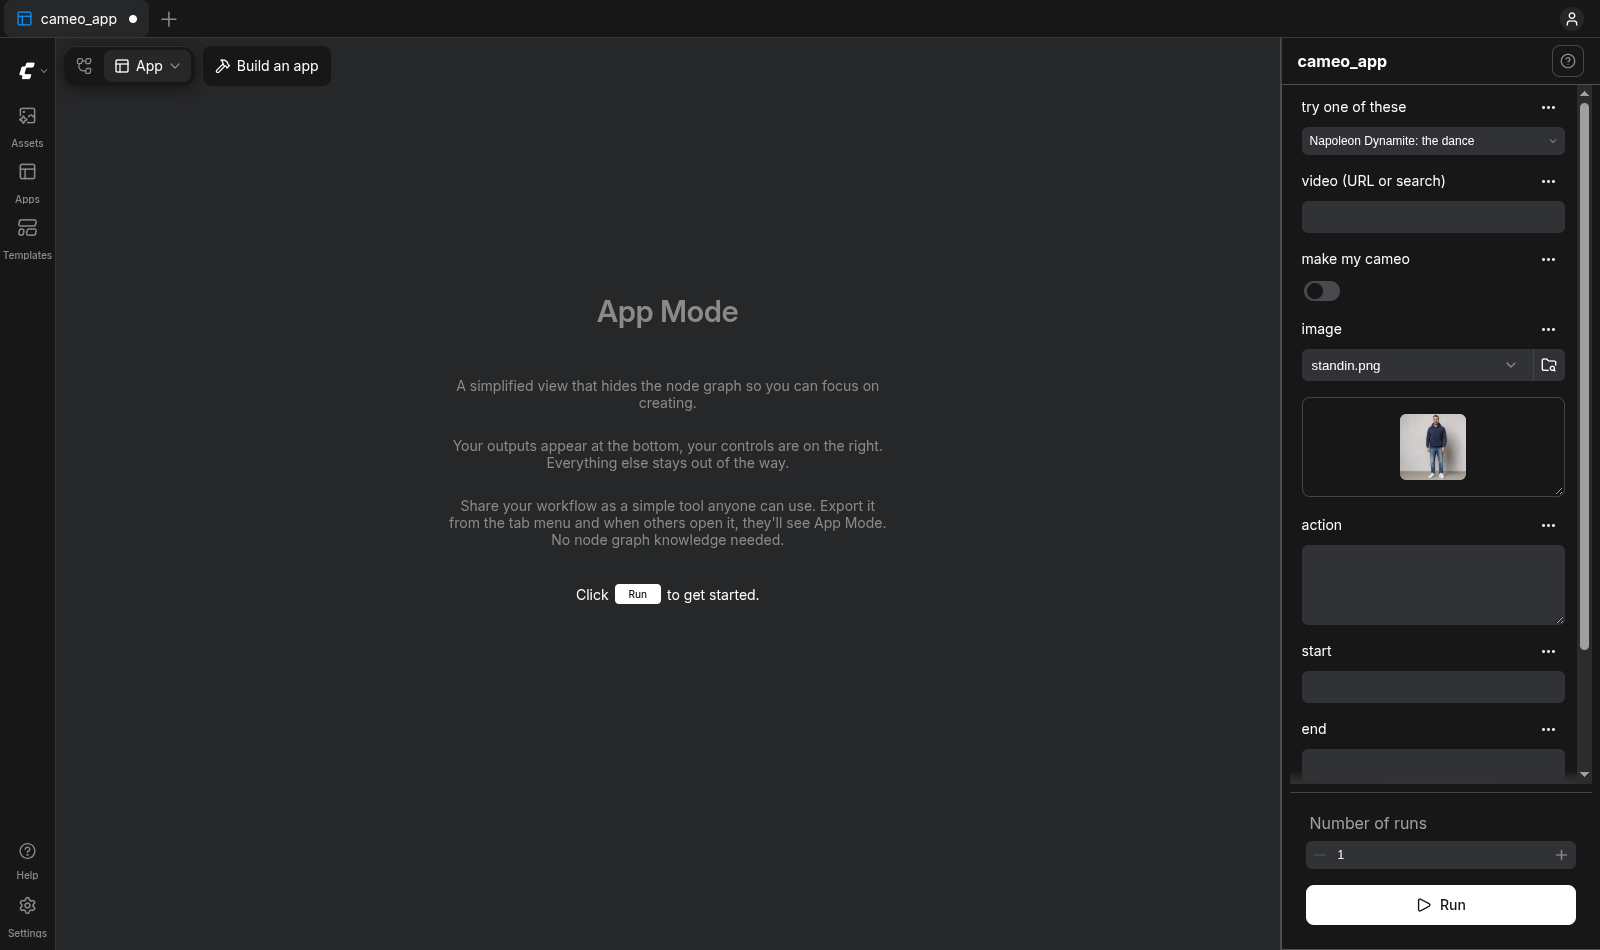
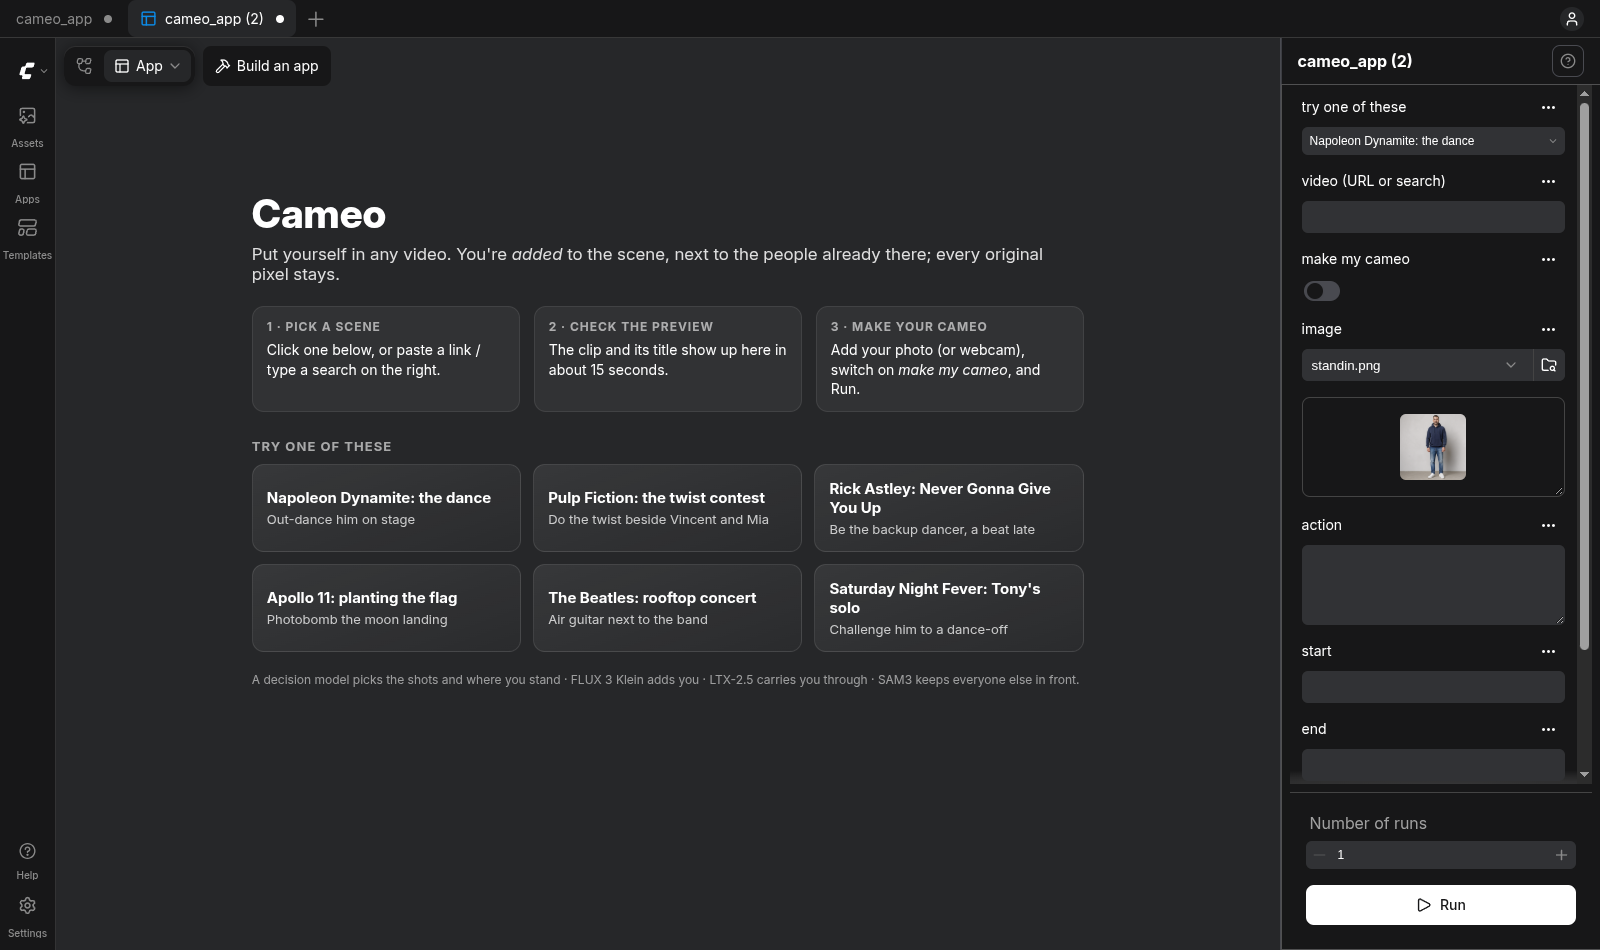
App Mode welcome screen for Cameo
Replace App Mode's generic empty state with Cameo's own whenever the Cameo app
is open: the pitch, the three steps, and clickable scene cards that pick the
scene in the sidebar and start its preview.

Claude-Session: https://claude.ai/code/session_01WrQ2DxVGgjGvV8Z2unbntU

diff --git a/comfyui_cameo/web/cameo.js b/comfyui_cameo/web/cameo.js
@@ -53,3 +53,94 @@ app.registerExtension({
     setTimeout(preferPhoto, 600);
   },
 });
+
+// ---- App Mode welcome: replace the generic empty state with Cameo's own, when the Cameo app is open ----
+
+const SCENES = [
+  ["Napoleon Dynamite: the dance", "Out-dance him on stage"],
+  ["Pulp Fiction: the twist contest", "Do the twist beside Vincent and Mia"],
+  ["Rick Astley: Never Gonna Give You Up", "Be the backup dancer, a beat late"],
+  ["Apollo 11: planting the flag", "Photobomb the moon landing"],
+  ["The Beatles: rooftop concert", "Air guitar next to the band"],
+  ["Saturday Night Fever: Tony's solo", "Challenge him to a dance-off"],
+];
+
+function cameoNodes() {
+  const nodes = app.graph?._nodes ?? [];
+  return { fetch: nodes.find((n) => n.comfyClass === "CameoFetch"), cast: nodes.find((n) => n.comfyClass === "CameoCast") };
+}
+
+function setWidget(node, name, value) {
+  const w = node?.widgets?.find((w) => w.name === name);
+  if (!w) return;
+  w.value = value;
+  w.callback?.(value, app.canvas, node);
+  node.setDirtyCanvas?.(true, true);
+}
+
+function pickScene(label) {
+  const { fetch, cast } = cameoNodes();
+  setWidget(fetch, "suggestion", label);
+  setWidget(fetch, "url", "");
+  const making = cast?.widgets?.find((w) => w.name === "make_cameo")?.value;
+  if (!making) app.queuePrompt(0, 1); // a preview only: about 15 seconds, no models loaded
+}
+
+function welcome() {
+  const root = document.createElement("div");
+  root.className = "cameo-welcome";
+  root.innerHTML = `
+    <style>
+      .cameo-welcome{max-width:880px;margin:0 auto;padding:28px 24px;color:var(--fg-color,#ddd);text-align:left;pointer-events:auto}
+      .cameo-welcome h1{font-size:40px;font-weight:800;margin:0 0 6px;color:#fff}
+      .cameo-welcome .pitch{font-size:17px;opacity:.85;margin:0 0 22px}
+      .cameo-welcome ol{display:flex;gap:14px;list-style:none;padding:0;margin:0 0 26px}
+      .cameo-welcome ol li{flex:1;background:rgba(255,255,255,.05);border:1px solid rgba(255,255,255,.08);border-radius:12px;padding:12px 14px;font-size:14px;line-height:1.4}
+      .cameo-welcome ol b{display:block;font-size:12px;letter-spacing:.08em;text-transform:uppercase;opacity:.6;margin-bottom:4px}
+      .cameo-welcome h2{font-size:13px;letter-spacing:.08em;text-transform:uppercase;opacity:.6;margin:0 0 10px}
+      .cameo-welcome .cards{display:grid;grid-template-columns:repeat(3,1fr);gap:12px}
+      .cameo-welcome button.card{all:unset;cursor:pointer;background:linear-gradient(160deg,rgba(255,255,255,.08),rgba(255,255,255,.02));border:1px solid rgba(255,255,255,.1);border-radius:12px;padding:14px;transition:transform .12s,border-color .12s}
+      .cameo-welcome button.card:hover{transform:translateY(-2px);border-color:rgba(120,170,255,.7)}
+      .cameo-welcome .card .t{font-weight:700;font-size:15px;color:#fff;margin-bottom:4px}
+      .cameo-welcome .card .d{font-size:13px;opacity:.75}
+      .cameo-welcome .foot{margin-top:20px;font-size:12px;opacity:.55}
+      @media (max-width:900px){.cameo-welcome .cards{grid-template-columns:repeat(2,1fr)}.cameo-welcome ol{flex-direction:column}}
+    </style>
+    <h1>Cameo</h1>
+    <p class="pitch">Put yourself in any video. You're <i>added</i> to the scene, next to the people already there; every original pixel stays.</p>
+    <ol>
+      <li><b>1 · Pick a scene</b>Click one below, or paste a link / type a search on the right.</li>
+      <li><b>2 · Check the preview</b>The clip and its title show up here in about 15 seconds.</li>
+      <li><b>3 · Make your cameo</b>Add your photo (or webcam), switch on <i>make my cameo</i>, and Run.</li>
+    </ol>
+    <h2>Try one of these</h2>
+    <div class="cards"></div>
+    <p class="foot">A decision model picks the shots and where you stand · FLUX 3 Klein adds you · LTX-2.5 carries you through · SAM3 keeps everyone else in front.</p>`;
+  const cards = root.querySelector(".cards");
+  for (const [label, blurb] of SCENES) {
+    const b = document.createElement("button");
+    b.className = "card";
+    b.innerHTML = `<div class="t"></div><div class="d"></div>`;
+    b.querySelector(".t").textContent = label;
+    b.querySelector(".d").textContent = blurb;
+    b.addEventListener("click", () => pickScene(label));
+    cards.appendChild(b);
+  }
+  return root;
+}
+
+function decorate() {
+  const slot = document.querySelector('[data-testid="linear-welcome"]');
+  if (!slot) return;
+  const ours = slot.querySelector(":scope > .cameo-welcome");
+  if (!cameoNodes().fetch) {
+    if (ours) { ours.remove(); for (const c of slot.children) c.style.display = ""; slot.style.maxWidth = ""; }
+    return;
+  }
+  if (ours) return;
+  for (const c of slot.children) c.style.display = "none";
+  slot.style.maxWidth = "none";
+  slot.appendChild(welcome());
+}
+
+new MutationObserver(() => decorate()).observe(document.body, { childList: true, subtree: true });
